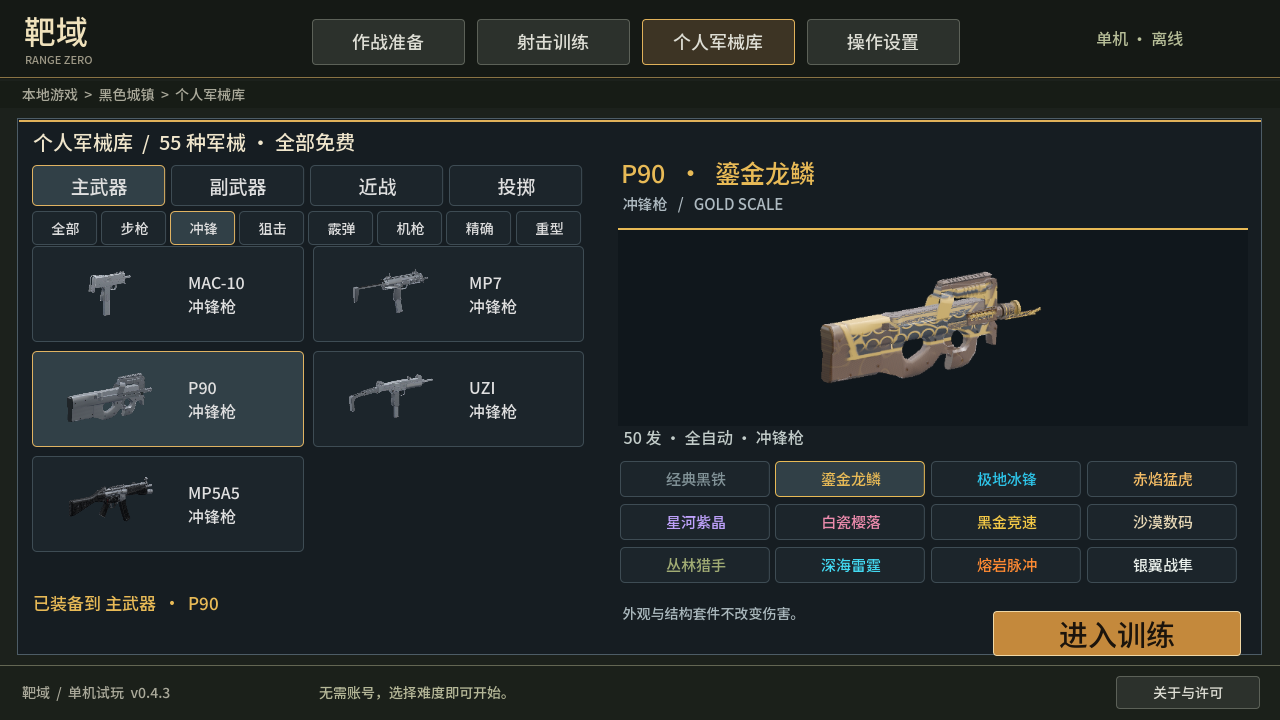
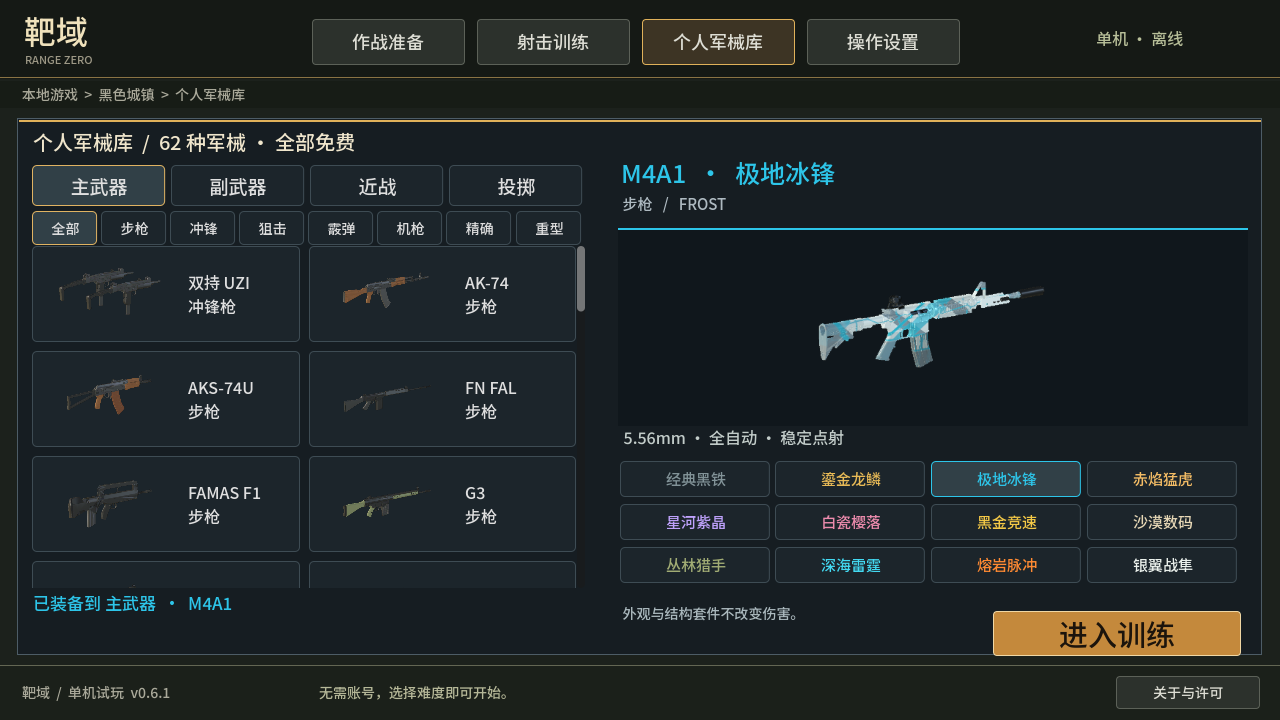
release: publish Range Zero 0.6.1 update manifest

diff --git a/README.md b/README.md
@@ -2,28 +2,29 @@
 
 Android 离线第一人称射击试玩，自由移动、手动瞄准、开火换弹，可练枪或与人机对战。
 
-- [下载 0.5.0 APK，约 228.8 MiB](https://github.com/junnhwan/range-zero/releases/download/v0.5.0/RangeZero-0.5.0-android.apk)
-- [加速下载](https://gh-proxy.org/https://github.com/junnhwan/range-zero/releases/download/v0.5.0/RangeZero-0.5.0-android.apk)
-- [版本说明与备用文件](https://github.com/junnhwan/range-zero/releases/tag/v0.5.0)
+- [下载 0.6.1 APK，约 255.5 MiB](https://github.com/junnhwan/range-zero/releases/download/v0.6.1/RangeZero-0.6.1-android.apk)
+- [加速下载](https://gh-proxy.org/https://github.com/junnhwan/range-zero/releases/download/v0.6.1/RangeZero-0.6.1-android.apk)
+- [版本说明与备用文件](https://github.com/junnhwan/range-zero/releases/tag/v0.6.1)
 
 ## 本版变化与试玩内容
 
-0.5.0 加入独立“耍刀 / 检视”按钮与电脑 Y 键，改善分刀型动作、枪械检视、收枪/拔枪、换弹和投掷，调整模型材质、脚步和按钮可见性。30/60 帧改为直接选择，关闭实时太阳阴影、环境反射和距离雾。
+0.6.1 修复被拉长的灰袖管、断开的手套与袖口，调整实际握持、换弹手指和拔刀剑路径。此版也包含持枪镜头、瞄准眼距、连发后坐力、枪口/抛壳反馈与场景光影的改进，并修复旧版 P90 切沙鹰的材质错误。
 
 - 黑色城镇简化练场，靶场与 5 分钟人机对局；当前为玩家对 3 名人机，没有独立刀战或友方小队模式。
-- 55 种装备：41 把枪、11 种近战、破片/烟雾/闪光三种投掷；每种有 12 个外观，全部免费。
+- 62 种装备：46 把枪、13 种近战、破片/烟雾/闪光三种投掷；每种有 12 个外观，全部免费。新增鲁格、左轮、毛瑟匣枪、双 M1911、双 UZI、双短刃与拔刀剑。
 - 军械库配置主武器、副武器、近战和投掷。人机随机携带主武器与皮肤，死亡掉落，可近距拾取并继承外观和余弹；地图随机刷新武器尚未实现。
 - 左侧移动、右侧转向；开火可按住并拖动瞄准，底部四槽切换。近战轻重击、投掷高低抛分别操作；设置与军械配置本地保存。
+- 狙击可设置点击开镜、按住拖动松手保持，或按住拖动松手射击；取消触摸、暂停和切枪不会误射。
 
-**已知问题：** P90 切换沙鹰时可重复出现材质引用错误日志。17 项军械操作检查通过，运行日志检查未通过；尚未观察到崩溃，瞬时画面影响仍待定位。按用户选择先发布当前试玩包，后续优先修复。
+部分枪体与手套形体仍简化，专门动作和整体自然度还需继续完善。模拟器检查不代表真实手机流畅度、温度、续航或用户视觉认可。30/60 帧均为上限设置。
 
-41 枪四状态截图、660 张军械库预览、近战/投掷/换弹/检视采集完成技术审阅。部分低多边形轮廓、共享手指和程序化动作仍有提升空间；模拟器检查不代表真实手机流畅度、续航或用户视觉认可。60 帧仅为上限设置。
+以下为 0.6.1 Android 模拟器实际画面：
 
-以下为历史 0.4.3 Android 模拟器示例，未冒充本版截图：
+![Android 训练画面](images/gameplay.png)
 
-![历史 Android 训练画面](images/gameplay.png)
+![Android 拔刀剑动作](images/iaito.png)
 
-![历史 Android 军械库](images/armory.png)
+![Android 军械库](images/armory.png)
 
 ## 安装与更新
 
@@ -33,6 +34,6 @@ Android 7.0 起，需支持 OpenGL ES 3.0。沿用原包名和签名，下载后
 
 ## 文件与许可
 
[2 lines of base64/hex data omitted]
 
 模型、纹理、字体和引擎许可见 APK 的“关于与许可”及 `THIRD_PARTY_NOTICES.txt`。本公开仓库仅分发安装包和资料，源码、工具、日志和签名材料不公开。

diff --git a/CONTEXT.md b/CONTEXT.md
@@ -2,12 +2,12 @@
 
 更新：2026-10-23。
 
[2 lines of base64/hex data omitted]
 
-本版改善操作、耍刀/检视、切枪/换弹/投掷、材质、脚步与简化光影。完整说明见 Release。现有单人对 3 名人机与随机带皮肤敌方掉枪；独立刀战、友方小队、地图随机皮肤武器刷新尚未实现。
+本版修复手臂被拉长、手套与袖口分离和实际握持路径，调整弹匣接触与拔刀剑出鞘/收刀；包含镜头/后坐力/枪口与抛壳反馈、场景光影、三档狙击手势、新手枪与双持。62 件装备、46 枪、13 近战、3 投掷、12 款外观。部分模型和动作自然度仍需继续完善。
 
-34 项 Android 基础及 17 项军械操作检查通过。P90 切换沙鹰时的材质引用日志检查未通过，用户选择先发布当前试玩包并保留已知问题；没有将该项标成通过。真实手机性能和手感未测。
+同一确切 APK 的 40 项 Android 基础、18 项军械及公开 0.5.0 覆盖升级通过，四槽和各枪外观保留；原签名、非 Debug、三 ABI。真实手机性能、温度和触屏手感未测。草稿四个资产的服务端大小与 SHA-256 核对一致后，才公开 Release 和同步本仓库清单。
 
-每次先核对草稿四资产的服务端大小和 SHA-256，再公开 Release，最后同步同一主分支清单。普通启动、恢复与对局不联网，仅用户主动查新时连接固定公开来源。
+用户已要求取消每次发版的全量查图门槛。截图、预览、录像和美术审阅按任务需要执行，不要求每个版本重新采集。保留安装、签名、版本、保数据升级与下载一致性核对；不得把未执行的检查写成通过。
 
-源码、工具、测试日志、口令和签名材料不得进入本仓库。
+普通启动、恢复与对局不联网，仅用户主动查新时连接固定公开来源。源码、工具、测试日志、口令和签名材料不得进入本仓库。
